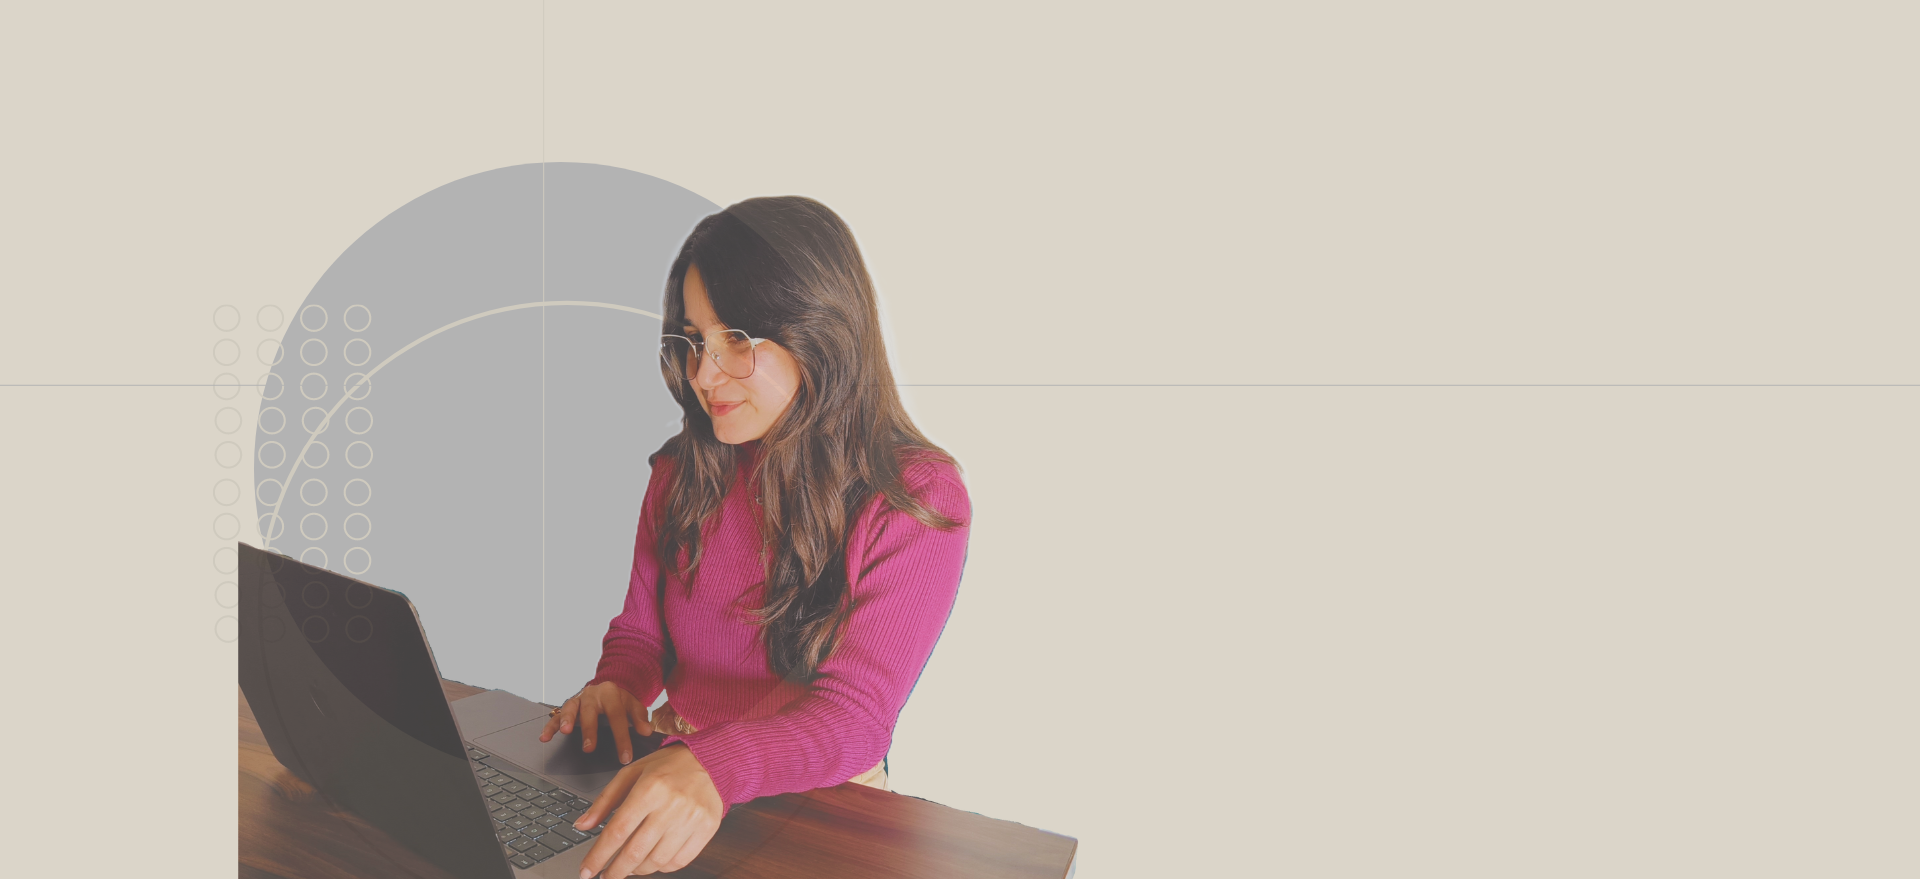
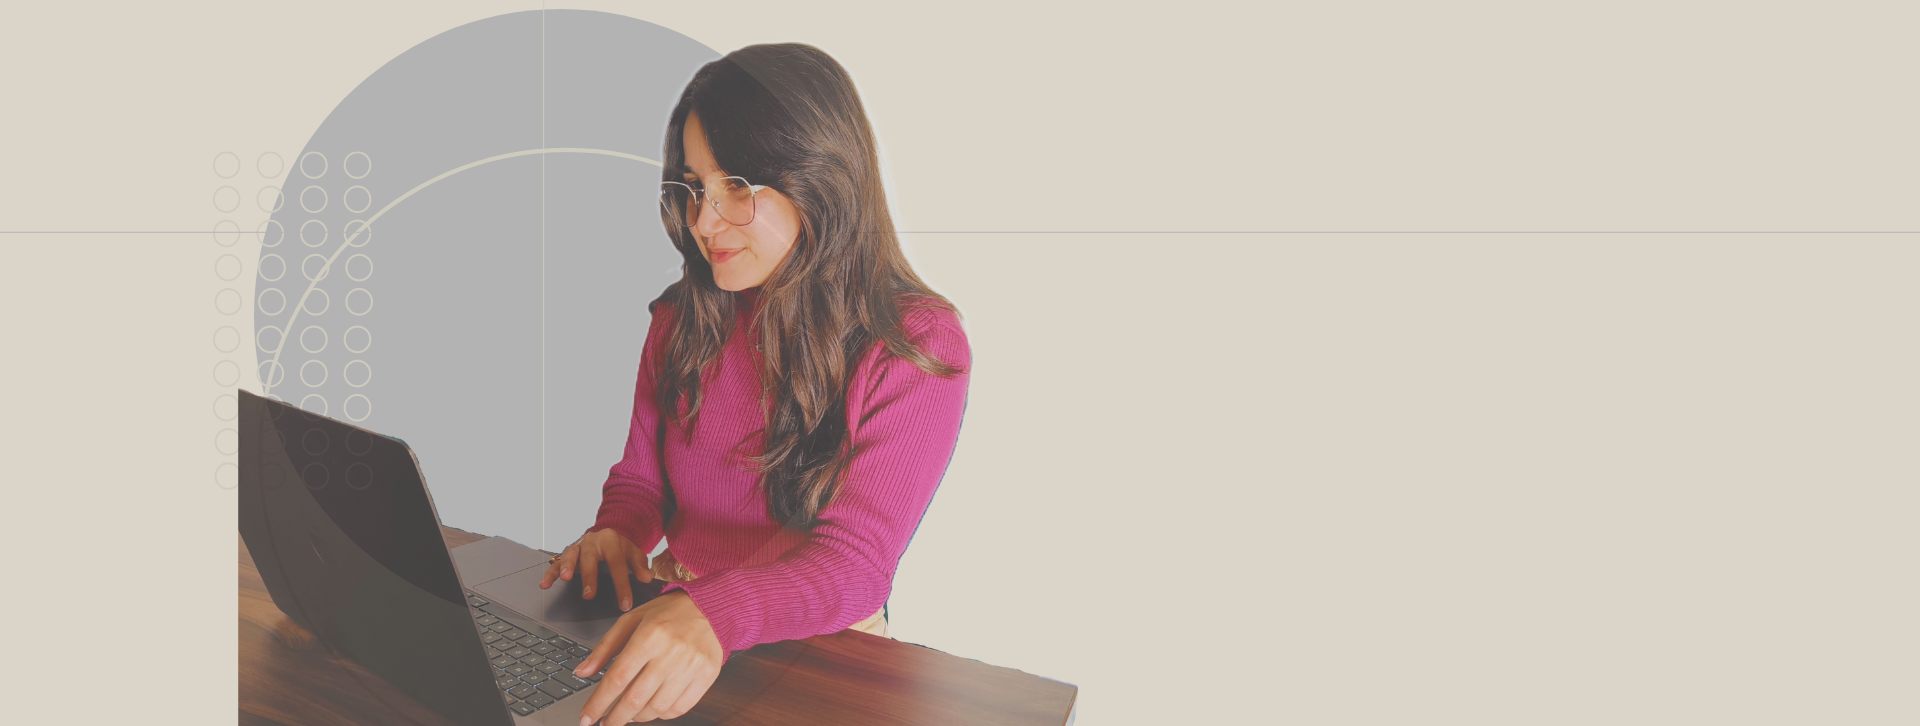
skills&navbar

Changed region(s): [[0.125, 0.0, 0.5625, 1.0], [0.125, 0.7576, 0.1562, 0.9091]]

diff --git a/src/Pages/Skills.js b/src/Pages/Skills.js
@@ -1,0 +1,89 @@
+import React from 'react';
+import { motion, AnimatePresence } from 'framer-motion';
+import { useInView } from 'react-intersection-observer';
+
+export default function Skills() {
+    const skills = ['Frontend', 'Backend', 'Designing'];
+    const [ref, inView] = useInView({
+        triggerOnce: true,
+        threshold: 0.5,
+    });
+
+    const flyIn = {
+        hidden: { opacity: 0, x: -100 },
+        visible: { opacity: 1, x: 0 },
+    };
+
+    return (
+        <div ref={ref} className='bg-[#f2f2f2] py-60 w-full flex flex-col items-center justify-center'>
+            <motion.div
+                variants={flyIn}
+                initial="hidden"
+                animate={inView ? "visible" : "hidden"}
+                exit={{ opacity: 0, x: 100 }}
+                transition={{ duration: 1, ease: "easeOut" }}
+            >
+                <motion.div className='text-8xl text-gray-800 name-font font-semibold tracking-wide'>
+                    Let's talk about my &rarr; <i>skills</i>
+                </motion.div>
+                <div className="flex items-center gap-24">
+                    <motion.div className='text-2xl mt-8 w-60 text-gray-800 name-font font-medium tracking-wide'>
+                        *I have a lot of developed skills but I am proficient in these.
+                    </motion.div>
+                    <AnimatePresence>
+                        {skills.map((skill, index) => (
+                            <motion.div
+                                key={index}
+                                whileInView={{ opacity: 1 }}
+                                initial={{ opacity: 0 }}
+                                animate={{ opacity: 1 }}
+                                exit={{ opacity: 0 }}
+                                transition={{ duration: 0.5, delay: index * 0.5 }}
+                                style={{ borderBottom: '4px solid #f93700' }}
+                                className='text-6xl text-gray-800 name-font font-medium tracking-wide'
+                            >
+                                {skill}
+                            </motion.div>
+                        ))}
+                    </AnimatePresence>
+                </div>
+                <motion.div className='text-6xl mt-36 text-gray-800 name-font font-semibold tracking-wide'>
+                    What I know &rarr;
+                </motion.div>
+                <motion.div className='text-6xl mt-10 text-gray-800 name-font font-medium tracking-wide'>
+                    <div className='flex flex-col gap-4 ml-40'>
+                        <div className="flex items-center gap-4">
+                        <p className='text-2xl text-[#f93700]'>A.</p>
+                        <div className='text-5xl'>HTML, CSS, JavaScript</div>
+                        </div>
+                        <div className="flex items-center gap-4">
+                        <p className='text-2xl'>B.</p>
+                        <div className='text-5xl text-[#f93700]'>ReactJS, NextJS, Typescript</div>
+                        </div>
+                        <div className="flex items-center gap-4">
+                        <p className='text-2xl text-[#f93700]'>C.</p>
+                        <div className='text-5xl'>CSS, TailwindCSS, Framer Motion</div>
+                        </div>
+                        <div className="flex items-center gap-4">
+                        <p className='text-2xl'>D.</p>
+                        <div className='text-5xl text-[#f93700]'>MongoDB, ExpressJS, NodeJS</div>
+                        </div>
+                        <div className="flex items-center gap-4">
+                        <p className='text-2xl text-[#f93700]'>E.</p>
+                        <div className='text-5xl'>SQL, Restful APIs, Firebase</div>
+                        </div>
+                        <div className="flex items-center gap-4">
+                        <p className='text-2xl'>F.</p>
+                        <div className='text-5xl text-[#f93700]'>Git, GitHub, Visual Studio</div>
+                        </div>
+                        <div className="flex items-center gap-4">
+                        <p className='text-2xl text-[#f93700]'>G.</p>
+                        <div className='text-5xl'>Python, Java, Rust</div>
+                        </div>
+                        </div>
+                </motion.div>
+                
+            </motion.div>
+        </div>
+    );
+}

diff --git a/src/Components/Navbar.js b/src/Components/Navbar.js
@@ -1,7 +1,9 @@
-import React from 'react';
+import React, { useState, useEffect } from 'react';
 import { motion } from 'framer-motion';
 
 const NavBar = () => {
+  const [isSticky, setSticky] = useState(false);
+
   const itemVariants = {
     hover: {
       scale: 1.1,
@@ -10,9 +12,40 @@ const NavBar = () => {
     },
   };
 
+  const subheadingVariants = {
+    hidden: {
+      opacity: 0,
+      y: -10,
+      transition: { duration: 0.5 },
+    },
+    visible: {
+      opacity: 1,
+      y: 0,
+      transition: { duration: 0.5 },
+    },
+  };
+
+  useEffect(() => {
+    const handleScroll = () => {
+      const offset = window.scrollY;
+      if (offset > 0) {
+        setSticky(true);
+      } else {
+        setSticky(false);
+      }
+    };
+
+    window.addEventListener('scroll', handleScroll);
+
+    // Clean up the event listener when the component unmounts
+    return () => {
+      window.removeEventListener('scroll', handleScroll);
+    };
+  }, []);
+
   return (
     <motion.div
-      className='py-10 px-16 basic-font flex justify-between absolute w-full bg-transparent z-10'
+      className={`py-10 px-16 basic-font flex justify-between w-full ${isSticky ? 'sticky' : ''}`}
       initial={{ opacity: 0, y: -50 }}
       animate={{ opacity: 1, y: 0 }}
       transition={{ duration: 0.5 }}
@@ -22,15 +55,31 @@ const NavBar = () => {
           className='text-center transform hover:cursor-pointer'
           whileHover="hover"
         >
-          <motion.h1 className='text-4xl' variants={itemVariants}>Info</motion.h1>
-          <motion.p className='text-sm mt-4' variants={itemVariants}>ABOUT ME</motion.p>
+          <motion.h1 className='text-4xl' variants={itemVariants}>Skills
+          <motion.p
+            className='text-sm mt-4'
+            variants={isSticky ? subheadingVariants : {}}
+            initial="hidden"
+            animate="visible"
+          >
+            THAT I DEVELOPED 
+          </motion.p></motion.h1>
+         
         </motion.div>
         <motion.div
           className='text-center transform hover:cursor-pointer'
           whileHover="hover"
         >
-          <motion.h1 className='text-4xl' variants={itemVariants}>Projects</motion.h1>
-          <motion.p className='text-sm mt-4' variants={itemVariants}>SOME SAMPLES</motion.p>
+          <motion.h1 className='text-4xl' variants={itemVariants}>Projects
+          <motion.p
+            className='text-sm mt-4'
+            variants={isSticky ? subheadingVariants : {}}
+            initial="hidden"
+            animate="visible"
+          >
+            SOME SAMPLES
+          </motion.p></motion.h1>
+
         </motion.div>
       </div>
 
@@ -39,15 +88,31 @@ const NavBar = () => {
           className='text-center transform hover:cursor-pointer'
           whileHover="hover"
         >
-          <motion.h1 className='text-4xl' variants={itemVariants}>Experience</motion.h1>
-          <motion.p className='text-sm mt-4' variants={itemVariants}>ALL THE PROCESSES</motion.p>
+          <motion.h1 className='text-4xl' variants={itemVariants}>Experience
+          <motion.p
+            className='text-sm mt-4'
+            variants={isSticky ? subheadingVariants : {}}
+            initial="hidden"
+            animate="visible"
+          >
+            ALL THE PROCESSES
+          </motion.p></motion.h1>
+         
         </motion.div>
         <motion.div
           className='text-center transform hover:cursor-pointer'
           whileHover="hover"
         >
-          <motion.h1 className='text-4xl' variants={itemVariants}>Contact me</motion.h1>
-          <motion.p className='text-sm mt-4' variants={itemVariants}>FOR ANY QUERY</motion.p>
+          <motion.h1 className='text-4xl' variants={itemVariants}>Contact me
+          <motion.p
+            className='text-sm mt-4'
+            variants={isSticky ? subheadingVariants : {}}
+            initial="hidden"
+            animate="visible"
+          >
+            FOR ANY QUERY
+          </motion.p></motion.h1>
+          
         </motion.div>
       </div>
     </motion.div>

diff --git a/src/Pages/Home.js b/src/Pages/Home.js
@@ -2,14 +2,17 @@ import React from 'react';
 import AnimatedText from '../Components/AnimatedText';
 
 const Home = () => {
+  
   return (
-    <div className='relative h-[100vh]'>
-      <AnimatedText text='Ishita' font='text-9xl' color='text-white' position={{ top: '0', left: '0' }} />
+    <div className=' pb-14 home'>
+      <div className="pt-[300px] pl-[850px]">
+      <AnimatedText text='Ishita' font='text-9xl' color='text-white' />
       <div className="ml-14">
-        <AnimatedText text='Raina' font='text-9xl' color='text-[#f93700]' position={{ top: '0', left: '0' }} />
+        <AnimatedText text='Raina' font='text-9xl' color='text-[#f93700]'  />
       </div>
       <div className="mt-4 ml-16">
-        <AnimatedText text='A full-stack Web Developer' font='text-2xl' color='text-gray-800' position={{ top: '350px', left: '850px' }} />
+        <AnimatedText text='A full-stack Web Developer' font='text-2xl' color='text-gray-800' />
+      </div>
       </div>
     </div>
   );

diff --git a/src/Components/AnimatedText2.js b/src/Components/AnimatedText2.js
@@ -4,9 +4,9 @@ import { motion } from 'framer-motion';
 const AnimatedText = ({ text, font, color }) => {
     return (
         <motion.div
-            initial={{ x: -100, opacity: 0 }}
-            animate={{ x: 0, opacity: 1 }}
-            exit={{ x: 100, opacity: 0 }}
+            initial={{ y: -100, opacity: 0 }}
+            animate={{ y: 0, opacity: 1 }}
+            exit={{ y: 100, opacity: 0 }}
             transition={{ duration: 0.8 }}
             className={`text-shawdow-lg name-font font-light tracking-widest ${color} ${font}`}
         >

diff --git a/src/App.css b/src/App.css
@@ -8,10 +8,11 @@
     font-family: 'Poppins', sans-serif;
 }
 body{
+    background-color: #dbd5c9;
+}
+.home{
     background-image: url('./assets/bg-img.png');
     background-repeat: no-repeat;
-    height: auto;
-    width: max-content;
 }
 .name-font{
     font-family: 'Playfair Display', serif;
@@ -20,3 +21,9 @@ body{
     font-family: 'Open Sans', sans-serif;
     font-weight: 300;
 }
+.sticky {
+    position: fixed;
+    top: 0;
+    width: 100%;
+    z-index: 1000;
+  }

diff --git a/src/App.js b/src/App.js
@@ -1,5 +1,7 @@
 import './App.css';
+import { useRef } from 'react'
 import Home from './Pages/Home'
+import Skills from './Pages/Skills'
 import Navbar from './Components/Navbar'
 
 function App() {
@@ -7,6 +9,7 @@ function App() {
     <div>
     <Navbar/>
     <Home/>
+    <Skills/>
     </div>
   );
 }
